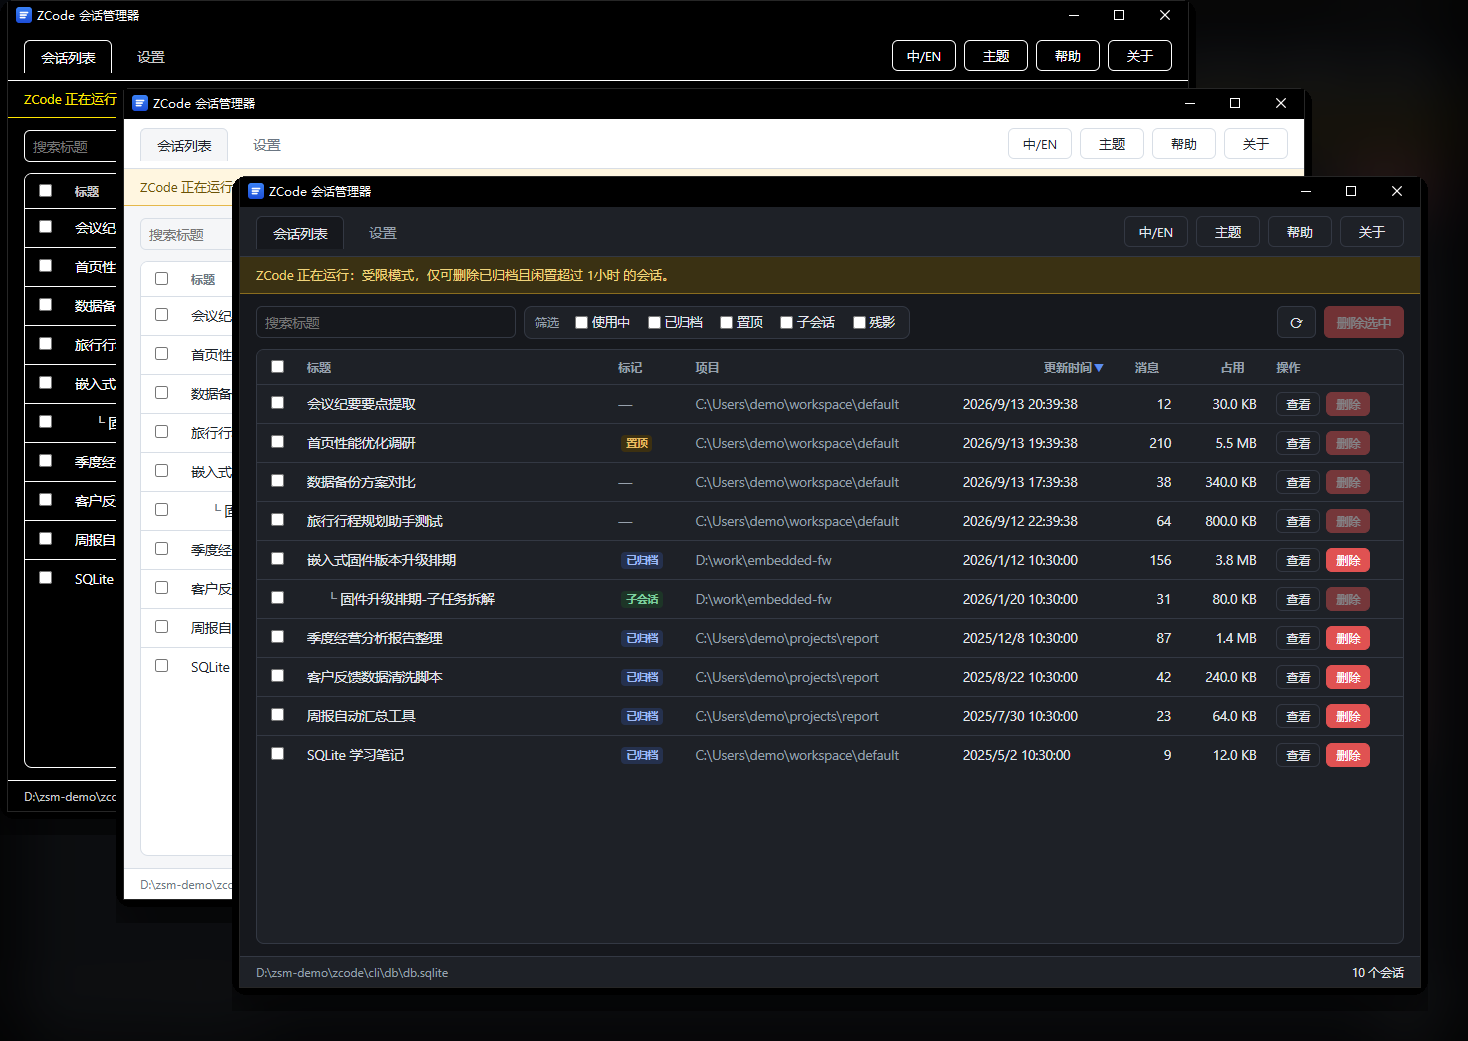
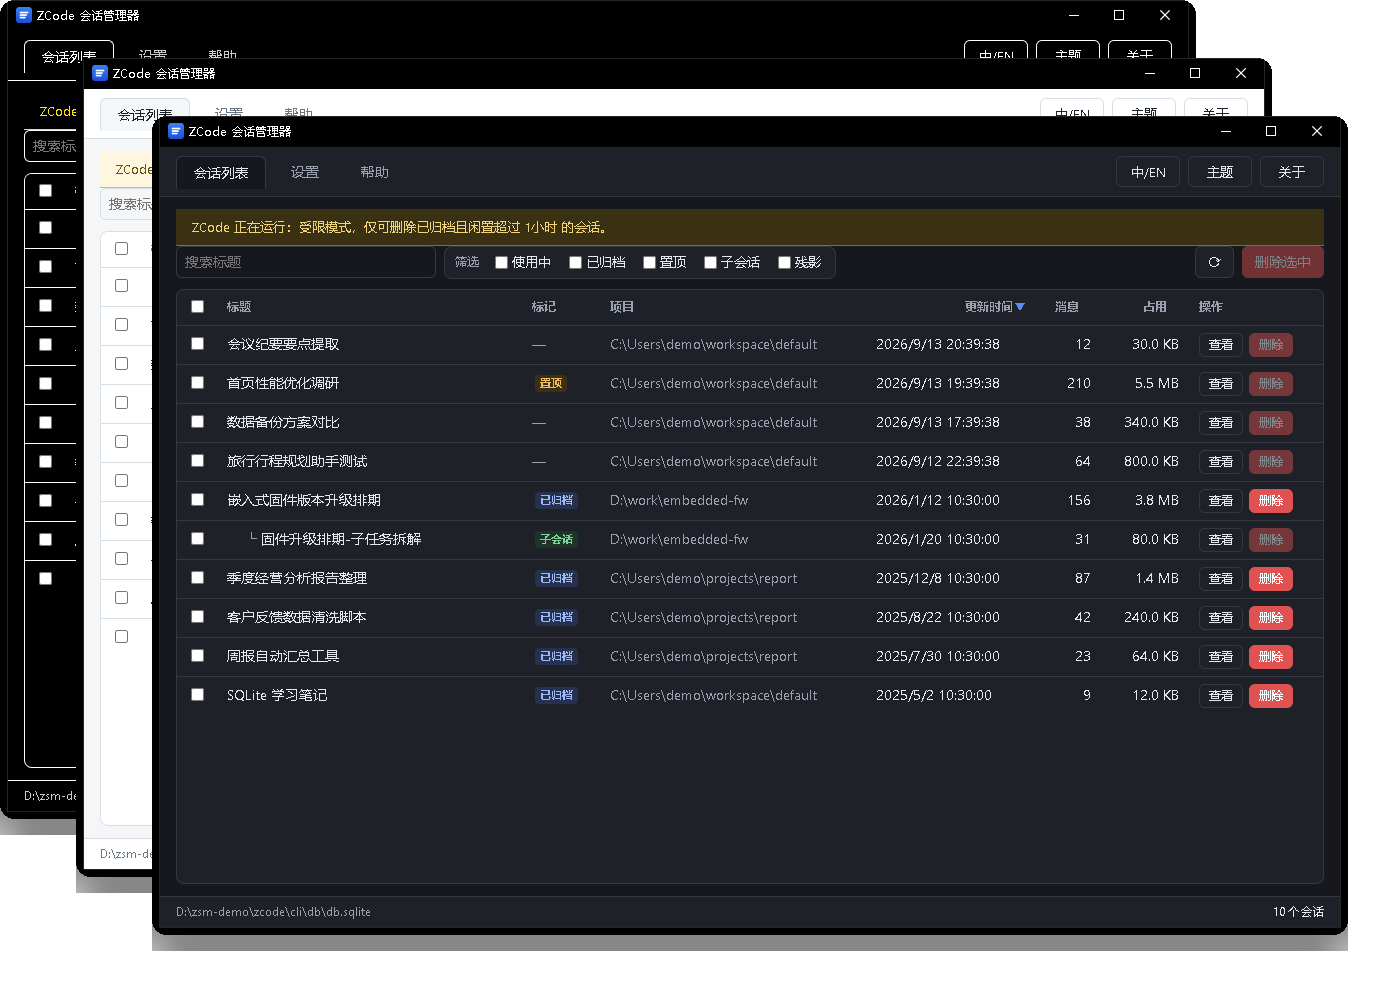
docs: refresh theme cascade hero images for the new UI, transparent canvas
Regenerated from the current interface (help tab, tightened settings,
demo dataset with a year-long date spread) in both languages:
docs/screenshot.png (zh) and docs/screenshot.en.png (en). The cascade
compositor now defaults to a fully transparent canvas — the stacked
windows carry their own soft shadows so the image sits cleanly on both
light and dark GitHub themes; the blurred backdrop remains available via
--backdrop.

diff --git a/tools/make_theme_cascade.py b/tools/make_theme_cascade.py
@@ -1,13 +1,13 @@
 """Compose the three theme screenshots into an Aero-task-view style cascade.
 
 The front window (first input) sits centered; the other two stack behind it,
-stepping up-left, with rounded corners and soft shadows. The backdrop is a
-blurred, darkened copy of the front shot so the composition feels like a
-task-view scene rather than a collage.
+stepping up-left, with rounded corners and soft shadows. By default the
+canvas is fully transparent (RGBA PNG) so the composition adapts to any
+page background; pass --backdrop to get the blurred darkened scene instead.
 
 Usage:
     python tools/make_theme_cascade.py FRONT MID BACK --out OUT
-        [--step-x 76] [--step-y 58] [--radius 14] [--blur 28]
+        [--step-x 76] [--step-y 58] [--radius 14] [--backdrop] [--blur 28]
 """
 
 import argparse
@@ -43,6 +43,9 @@ def main():
     ap.add_argument("--step-x", type=int, default=76)
     ap.add_argument("--step-y", type=int, default=58)
     ap.add_argument("--radius", type=int, default=14)
+    ap.add_argument("--backdrop", action="store_true",
+                    help="place the cascade on a blurred darkened copy of the front shot "
+                         "instead of a transparent canvas")
     ap.add_argument("--blur", type=int, default=28)
     args = ap.parse_args()
 
@@ -54,11 +57,13 @@ def main():
     mx, my = args.step_x * 2 + 40, args.step_y * 2 + 46
     canvas_w, canvas_h = w + mx, h + my
 
-    # backdrop: blurred + darkened copy of the front shot
-    bg = front.convert("RGB").resize((canvas_w, canvas_h))
-    bg = bg.filter(ImageFilter.GaussianBlur(args.blur))
-    bg = ImageEnhance.Brightness(bg).enhance(0.42)
-    canvas = bg.convert("RGBA")
+    if args.backdrop:
+        bg = front.convert("RGB").resize((canvas_w, canvas_h))
+        bg = bg.filter(ImageFilter.GaussianBlur(args.blur))
+        bg = ImageEnhance.Brightness(bg).enhance(0.42)
+        canvas = bg.convert("RGBA")
+    else:
+        canvas = Image.new("RGBA", (canvas_w, canvas_h), (0, 0, 0, 0))
 
     def paste_window(img, pos):
         canvas.alpha_composite(shadow_layer_for(img, args.radius, 14, 120, 16), pos)
@@ -68,8 +73,9 @@ def main():
     paste_window(mid, (args.step_x, args.step_y))
     paste_window(front, (args.step_x * 2, args.step_y * 2))
 
-    canvas.convert("RGB").save(args.out)
-    print(f"composed {args.out} ({canvas_w} x {canvas_h}, cascade step {args.step_x}x{args.step_y})")
+    canvas.save(args.out)
+    print(f"composed {args.out} ({canvas_w} x {canvas_h}, "
+          f"{'backdrop' if args.backdrop else 'transparent'}, step {args.step_x}x{args.step_y})")
 
 
 if __name__ == "__main__":
